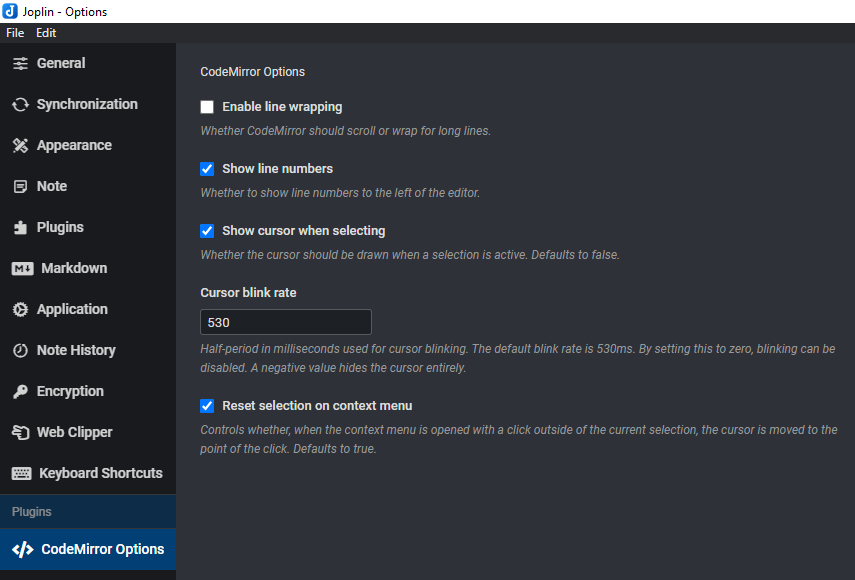
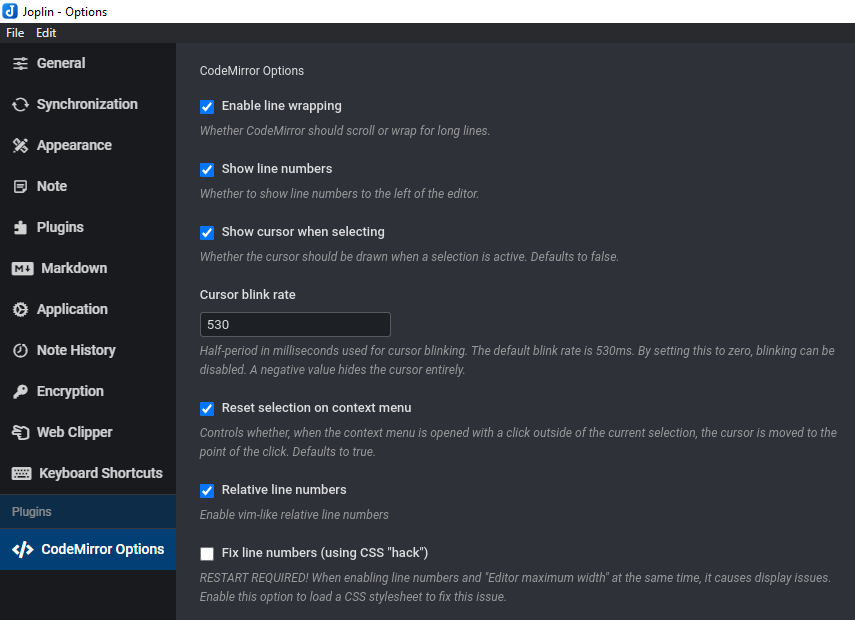
Update screenshots

diff --git a/README.md b/README.md
@@ -60,8 +60,17 @@ See the screenshots below:
 
 ## 📸 Screenshots
 
+#### Options
+
 ![](assets/options.png)
+
+#### Line numbers
+
 ![](assets/line_numbers.png)
+
+#### Vim-like relative line numbers
+
+![](assets/relative_line_numbers.png)
 
 ## ⚙ Installation
 
